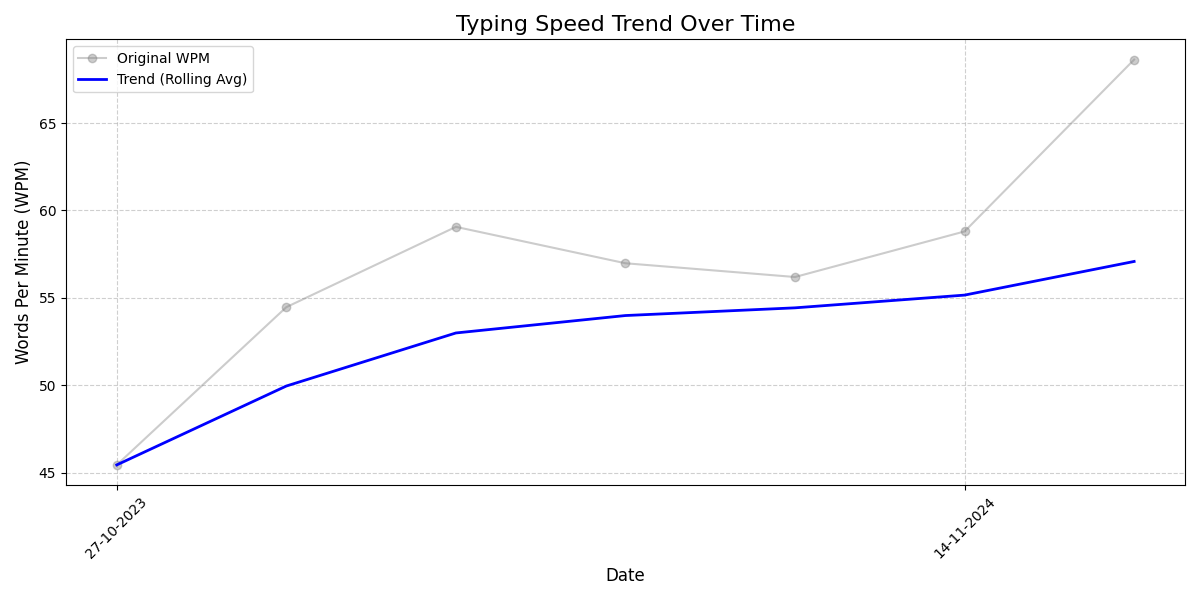
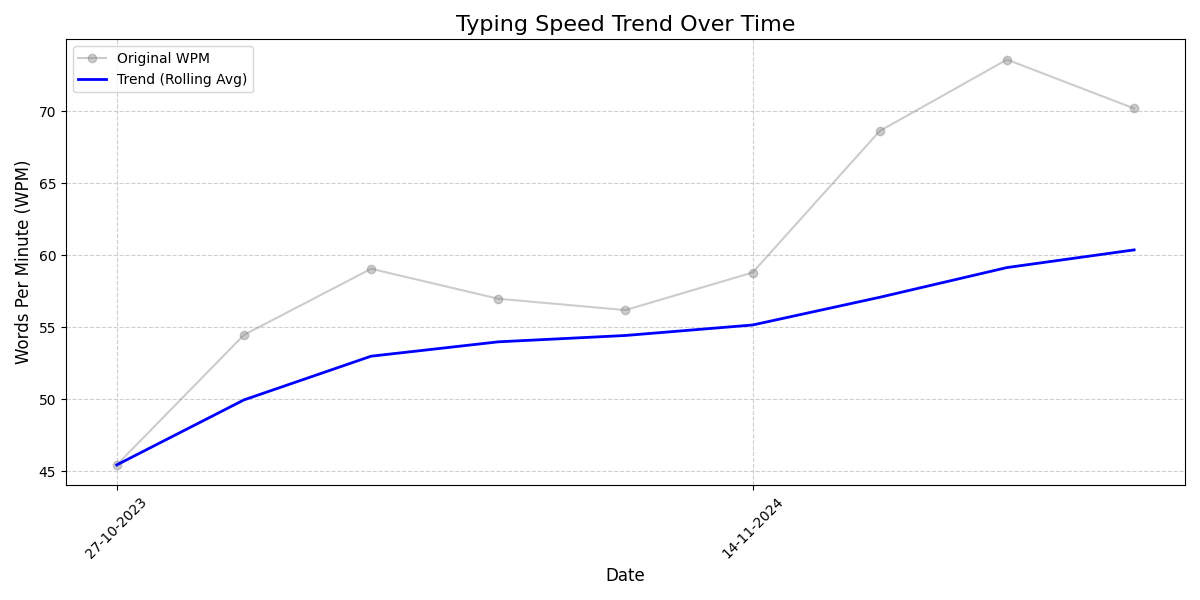
Update README with new stats (19/11/2024 09:50)

diff --git a/README.md b/README.md
@@ -4,16 +4,16 @@
 
 
         
-## Typing History Stats (Last Updated: 19/11/2024 09:47)
+## Typing History Stats (Last Updated: 19/11/2024 09:50)
 
 | **Key Stats**               | **Overall Stats**       | **Last 10 Tests Stats**  |
 |--------------------------|-------------------------|--------------------------|
-| **Total Entries**        | 100           | 10                       |
-| **Average WPM**          | 56.86           | 68.14    |
-| **Average Accuracy**     | 93.46%          | 91.81%   |
+| **Total Entries**        | 103           | 10                       |
+| **Average WPM**          | 57.28           | 69.50    |
+| **Average Accuracy**     | 93.43%          | 91.89%   |
 | **Max WPM**              | 82.8               | 77.2        |
 | **Min WPM**              | 34.76               | 57.97                        |
-| **Total Duration**       | 01:18:55        | 00:05:00                        |
+| **Total Duration**       | 01:20:25        | 00:05:00                        |
 
 
 ---
@@ -22,16 +22,16 @@
 
 | | WPM | Accuracy | Consistency | Mode | Date |
 | --- | --- | -------- | ----------- | ---- | --------- |
-| 1 | 68.79 | 92.51 | 64.7 | time 30 | 15-11-2024 13:06:10 |
-| 2 | 68.37 | 91.15 | 67.33 | time 30 | 15-11-2024 13:05:36 |
-| 3 | 71.17 | 94.66 | 66.01 | time 30 | 15-11-2024 13:04:59 |
-| 4 | 57.97 | 85.71 | 64.01 | time 30 | 15-11-2024 13:03:27 |
-| 5 | 70.37 | 93.16 | 69.4 | time 30 | 15-11-2024 12:02:10 |
-| 6 | 67.19 | 88.56 | 68.66 | time 30 | 15-11-2024 12:01:05 |
-| 7 | 77.2 | 95.1 | 67.47 | time 30 | 15-11-2024 11:59:02 |
-| 8 | 65.18 | 91.67 | 69.38 | time 30 | 15-11-2024 10:35:36 |
-| 9 | 65.59 | 89.95 | 63.09 | time 30 | 15-11-2024 10:34:47 |
-| 10 | 69.59 | 95.63 | 71.81 | time 30 | 15-11-2024 10:33:41 |
+| 1 | 68.39 | 91.98 | 70.22 | time 30 | 19-11-2024 07:06:32 |
+| 2 | 71.99 | 93.53 | 76.2 | time 30 | 19-11-2024 07:03:44 |
+| 3 | 73.58 | 92.54 | 75.89 | time 30 | 18-11-2024 14:23:47 |
+| 4 | 68.79 | 92.51 | 64.7 | time 30 | 15-11-2024 13:06:10 |
+| 5 | 68.37 | 91.15 | 67.33 | time 30 | 15-11-2024 13:05:36 |
+| 6 | 71.17 | 94.66 | 66.01 | time 30 | 15-11-2024 13:04:59 |
+| 7 | 57.97 | 85.71 | 64.01 | time 30 | 15-11-2024 13:03:27 |
+| 8 | 70.37 | 93.16 | 69.4 | time 30 | 15-11-2024 12:02:10 |
+| 9 | 67.19 | 88.56 | 68.66 | time 30 | 15-11-2024 12:01:05 |
+| 10 | 77.2 | 95.1 | 67.47 | time 30 | 15-11-2024 11:59:02 |
 
 
  --- 
@@ -43,13 +43,13 @@
 | 1 | 82.8 | 95.87 | 75.66 | time 30 | 15-11-2024 08:43:33 |
 | 2 | 77.2 | 95.1 | 67.47 | time 30 | 15-11-2024 11:59:02 |
 | 3 | 74.92 | 97.76 | 82.7 | words 25 | 28-10-2023 11:41:53 |
-| 4 | 71.99 | 95.41 | 70.5 | time 30 | 15-11-2024 10:31:51 |
-| 5 | 71.57 | 93.78 | 69.79 | time 30 | 15-11-2024 08:41:23 |
-| 6 | 71.17 | 94.66 | 66.01 | time 30 | 15-11-2024 13:04:59 |
-| 7 | 70.37 | 93.16 | 69.4 | time 30 | 15-11-2024 12:02:10 |
-| 8 | 69.59 | 95.63 | 71.81 | time 30 | 15-11-2024 10:33:41 |
-| 9 | 68.79 | 92.51 | 64.7 | time 30 | 15-11-2024 13:06:10 |
-| 10 | 68.78 | 95.56 | 68.97 | time 30 | 15-11-2024 08:39:02 |
+| 4 | 73.58 | 92.54 | 75.89 | time 30 | 18-11-2024 14:23:47 |
+| 5 | 71.99 | 95.41 | 70.5 | time 30 | 15-11-2024 10:31:51 |
+| 6 | 71.99 | 93.53 | 76.2 | time 30 | 19-11-2024 07:03:44 |
+| 7 | 71.57 | 93.78 | 69.79 | time 30 | 15-11-2024 08:41:23 |
+| 8 | 71.17 | 94.66 | 66.01 | time 30 | 15-11-2024 13:04:59 |
+| 9 | 70.37 | 93.16 | 69.4 | time 30 | 15-11-2024 12:02:10 |
+| 10 | 69.59 | 95.63 | 71.81 | time 30 | 15-11-2024 10:33:41 |
 
 
  --- 
